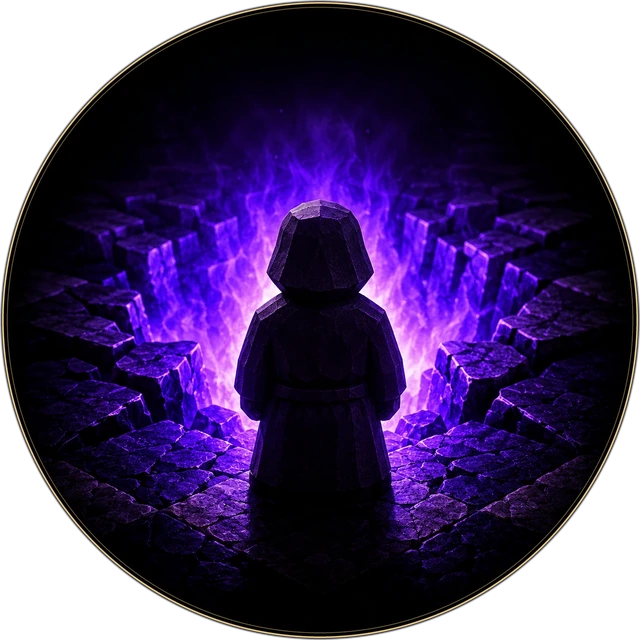
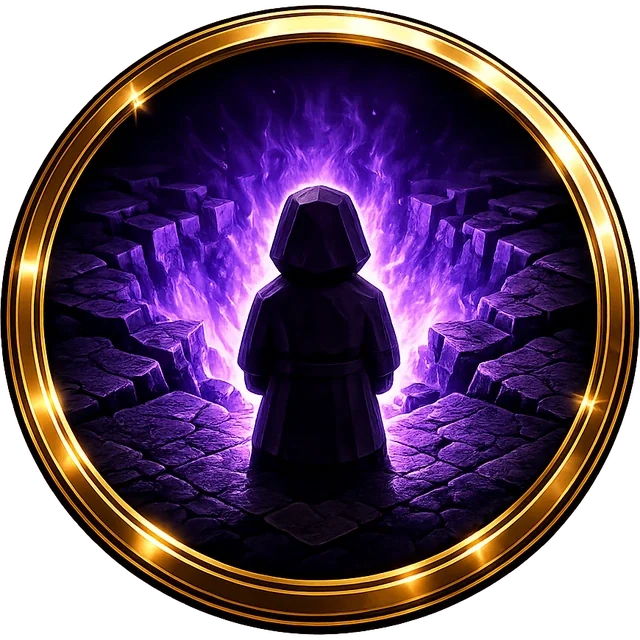
v0.36.5 Das gelieferte Zeichen ersetzt meine Eigenbau-Fassung: Der Goldring kommt jetzt aus dem Bild selbst statt aus zwei gezeichneten Ellipsen. Die Vorlage war bereits sauber freigestellt - mein erster Versuch, den weissen Grund von aussen wegzufluten, war ueberfluessig und haette den vorhandenen 

diff --git a/src/app/App.jsx b/src/app/App.jsx
@@ -359,7 +359,7 @@ export default function App() {
   const headerBar = (
     <div style={{ display: "flex", justifyContent: "space-between", alignItems: "center", gap: 10 }}>
       <img src={emblemArt()} alt="Grand Gambit" style={{ height: 34, display: "block", flex: "0 0 auto",
-        filter: "drop-shadow(0 0 7px rgba(139,92,246,.55)) drop-shadow(0 0 14px rgba(124,58,237,.3))" }} />
+        filter: "drop-shadow(0 0 5px rgba(139,92,246,.4)) drop-shadow(0 0 11px rgba(124,58,237,.22))" }} />
       <div style={{ flex: 1 }} />
       {currencyRow}
     </div>
@@ -382,7 +382,7 @@ export default function App() {
           borderRadius: 20, boxShadow: T.shadow, padding: "10px 16px",
           display: "flex", alignItems: "center", gap: 10 }}>
           <img src={emblemArt()} alt="Grand Gambit" style={{ height: 40, display: "block", flex: "0 0 auto", paddingRight: 6,
-            filter: "drop-shadow(0 0 7px rgba(139,92,246,.55)) drop-shadow(0 0 14px rgba(124,58,237,.3))" }} />
+            filter: "drop-shadow(0 0 5px rgba(139,92,246,.4)) drop-shadow(0 0 11px rgba(124,58,237,.22))" }} />
           <div style={{ display: "flex", alignItems: "center", justifyContent: "center", gap: 4, flex: "1 1 auto", minWidth: 0 }}>{railItems}</div>
           {currencyRow}
         </aside>
